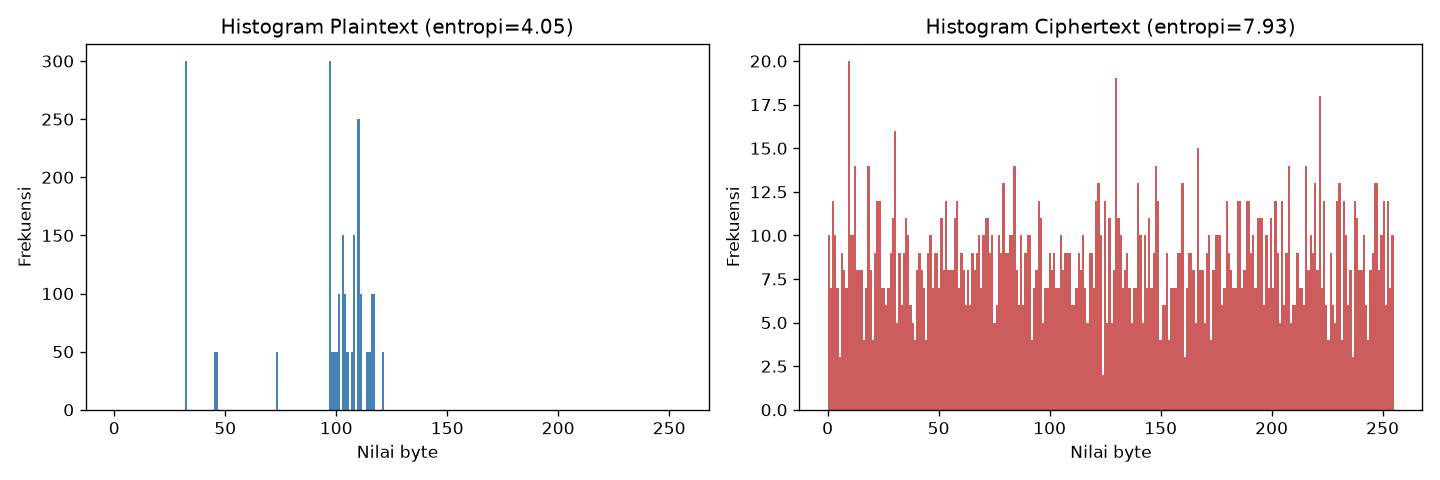
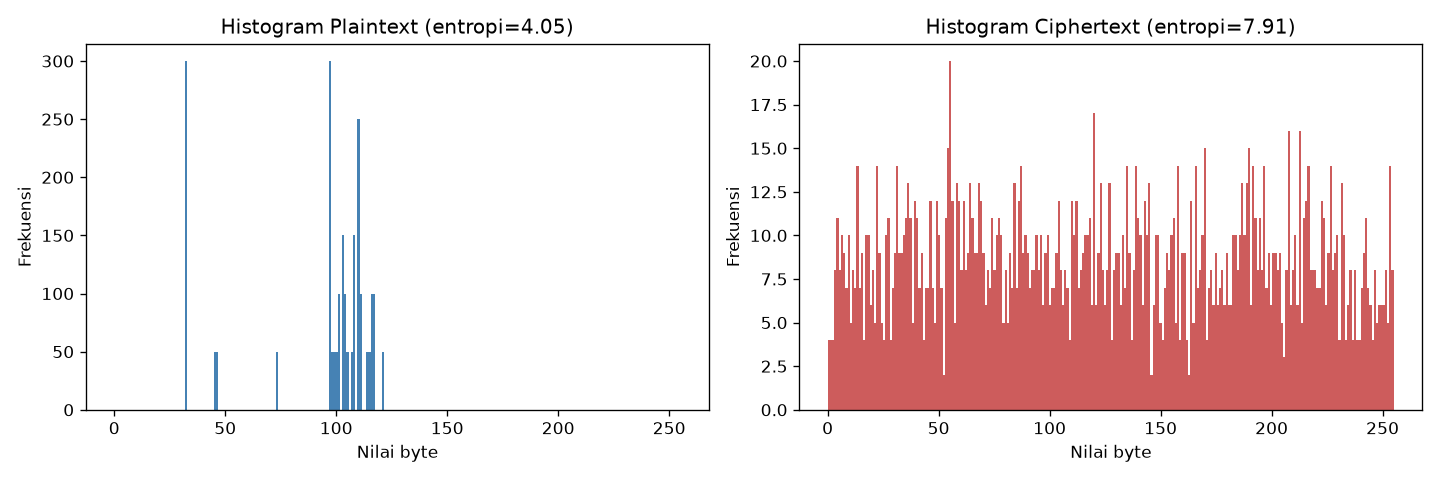
Add direct text input/output support

Changed region(s): [[0.5625, 0.3438, 0.9688, 0.7188], [0.875, 0.0312, 0.9062, 0.0625]]

diff --git a/app.py b/app.py
@@ -182,7 +182,7 @@ st.markdown("""
     </svg>
     <div>
         <p class="nc-hero-title">NACRYP</p>
-        <p class="nc-hero-tagline">enkripsi berkas dengan AES-256-GCM atau ChaCha20-Poly1305</p>
+        <p class="nc-hero-tagline">enkripsi teks & berkas dengan AES-256-GCM atau ChaCha20-Poly1305</p>
     </div>
 </div>
 """, unsafe_allow_html=True)
@@ -193,20 +193,39 @@ tab_enc, tab_dec, tab_hybrid = st.tabs(
 
 # ============================== TAB ENCRYPT ==============================
 with tab_enc:
-    st.subheader("Enkripsi Berkas")
+    st.subheader("Enkripsi Teks atau Berkas")
 
-    uploaded = st.file_uploader("Pilih berkas untuk dienkripsi", key="enc_file")
+    jenis_input = st.radio(
+        "Jenis Masukan", ["Berkas", "Teks"], horizontal=True, key="enc_jenis"
+    )
+
+    if jenis_input == "Berkas":
+        uploaded = st.file_uploader("Pilih berkas untuk dienkripsi", key="enc_file")
+        teks_input = None
+    else:
+        teks_input = st.text_area(
+            "Ketik atau tempel teks yang ingin dienkripsi", key="enc_teks", height=120
+        )
+        uploaded = None
+
     password = st.text_input("Password", type="password", key="enc_pw")
     algo_choice = st.radio(
         "Algoritma", ["AES-256-GCM", "ChaCha20-Poly1305"], horizontal=True
     )
 
     if st.button("Enkripsi", type="primary"):
-        if not uploaded or not password:
-            st.error("Unggah berkas dan masukkan password terlebih dahulu.")
+        ada_masukan = uploaded is not None or (teks_input is not None and teks_input.strip())
+        if not ada_masukan or not password:
+            st.error("Isi teks atau unggah berkas, dan masukkan password terlebih dahulu.")
         else:
             try:
-                plaintext = uploaded.getvalue()
+                if jenis_input == "Berkas":
+                    plaintext = uploaded.getvalue()
+                    nama_unduh = uploaded.name + ".enc"
+                else:
+                    plaintext = teks_input.encode("utf-8")
+                    nama_unduh = "pesan.txt.enc"
+
                 algo = (
                     ALGO_AES_GCM
                     if algo_choice == "AES-256-GCM"
@@ -236,7 +255,7 @@ with tab_enc:
                 st.download_button(
                     "Unduh berkas terenkripsi (.enc)",
                     data=blob,
-                    file_name=uploaded.name + ".enc",
+                    file_name=nama_unduh,
                     mime="application/octet-stream",
                 )
             except Exception as e:
@@ -244,7 +263,7 @@ with tab_enc:
 
 # ============================== TAB DECRYPT ==============================
 with tab_dec:
-    st.subheader("Dekripsi Berkas")
+    st.subheader("Dekripsi Teks atau Berkas")
 
     uploaded_enc = st.file_uploader("Pilih berkas .enc", key="dec_file")
     password_dec = st.text_input("Password", type="password", key="dec_pw")
@@ -257,14 +276,25 @@ with tab_dec:
                 blob = uploaded_enc.getvalue()
                 plaintext = decrypt(blob, password_dec)
 
-                st.success("Dekripsi berhasil! Berkas asli telah dipulihkan.")
+                st.success("Dekripsi berhasil! Data asli telah dipulihkan.")
 
                 original_name = uploaded_enc.name
                 if original_name.endswith(".enc"):
                     original_name = original_name[:-4]
 
+                # Coba tampilkan sebagai teks langsung kalau memang berupa
+                # teks UTF-8 valid (misal hasil enkripsi dari mode "Teks"
+                # di tab Encrypt). Kalau bukan teks (berkas biner seperti
+                # gambar/PDF), decode akan gagal dan cukup tampilkan
+                # tombol download saja.
+                try:
+                    teks_hasil = plaintext.decode("utf-8")
+                    st.text_area("Isi teks hasil dekripsi", teks_hasil, height=120)
+                except UnicodeDecodeError:
+                    pass  # bukan teks biasa, tidak apa-apa — berkas biner
+
                 st.download_button(
-                    "Unduh berkas asli",
+                    "Unduh hasil dekripsi",
                     data=plaintext,
                     file_name=original_name,
                 )
@@ -281,7 +311,7 @@ with tab_dec:
 with tab_hybrid:
     st.subheader("Enkripsi Hibrida (RSA-OAEP + AES-256-GCM)")
     st.caption(
-        "Tidak perlu berbagi password. Pengirim cukup "
+        "Fitur pengayaan: tidak perlu berbagi password. Pengirim cukup "
         "punya kunci PUBLIK penerima; hanya kunci PRIVAT penerima yang "
         "bisa membuka data."
     )
